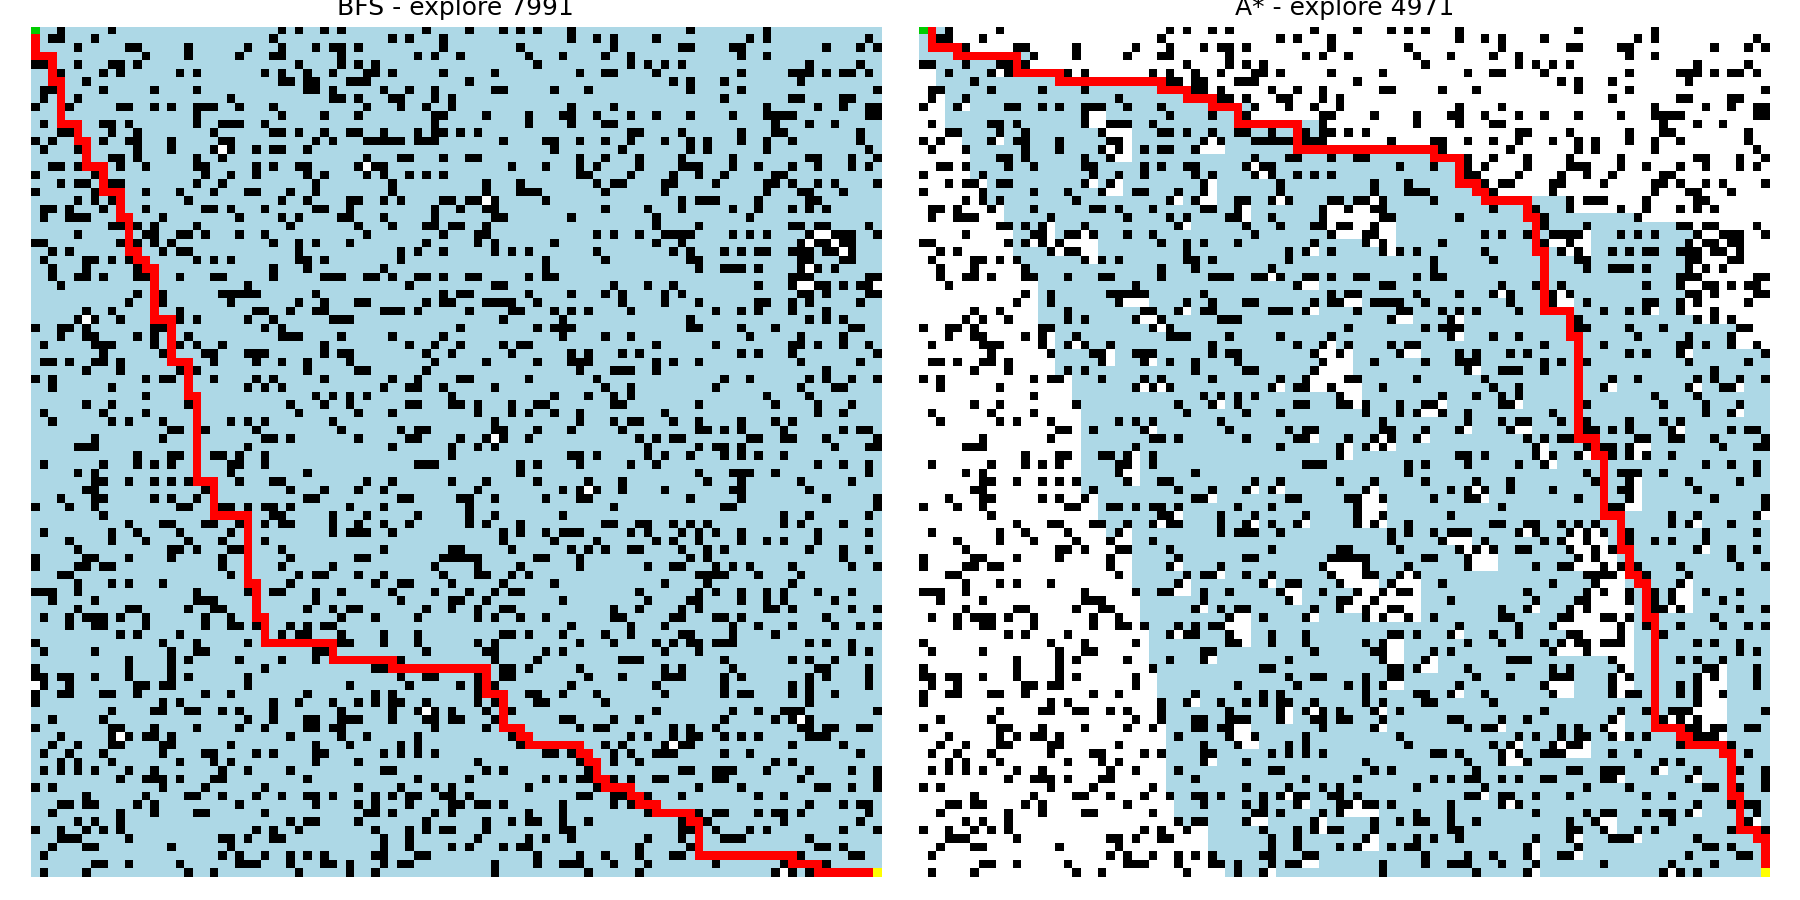
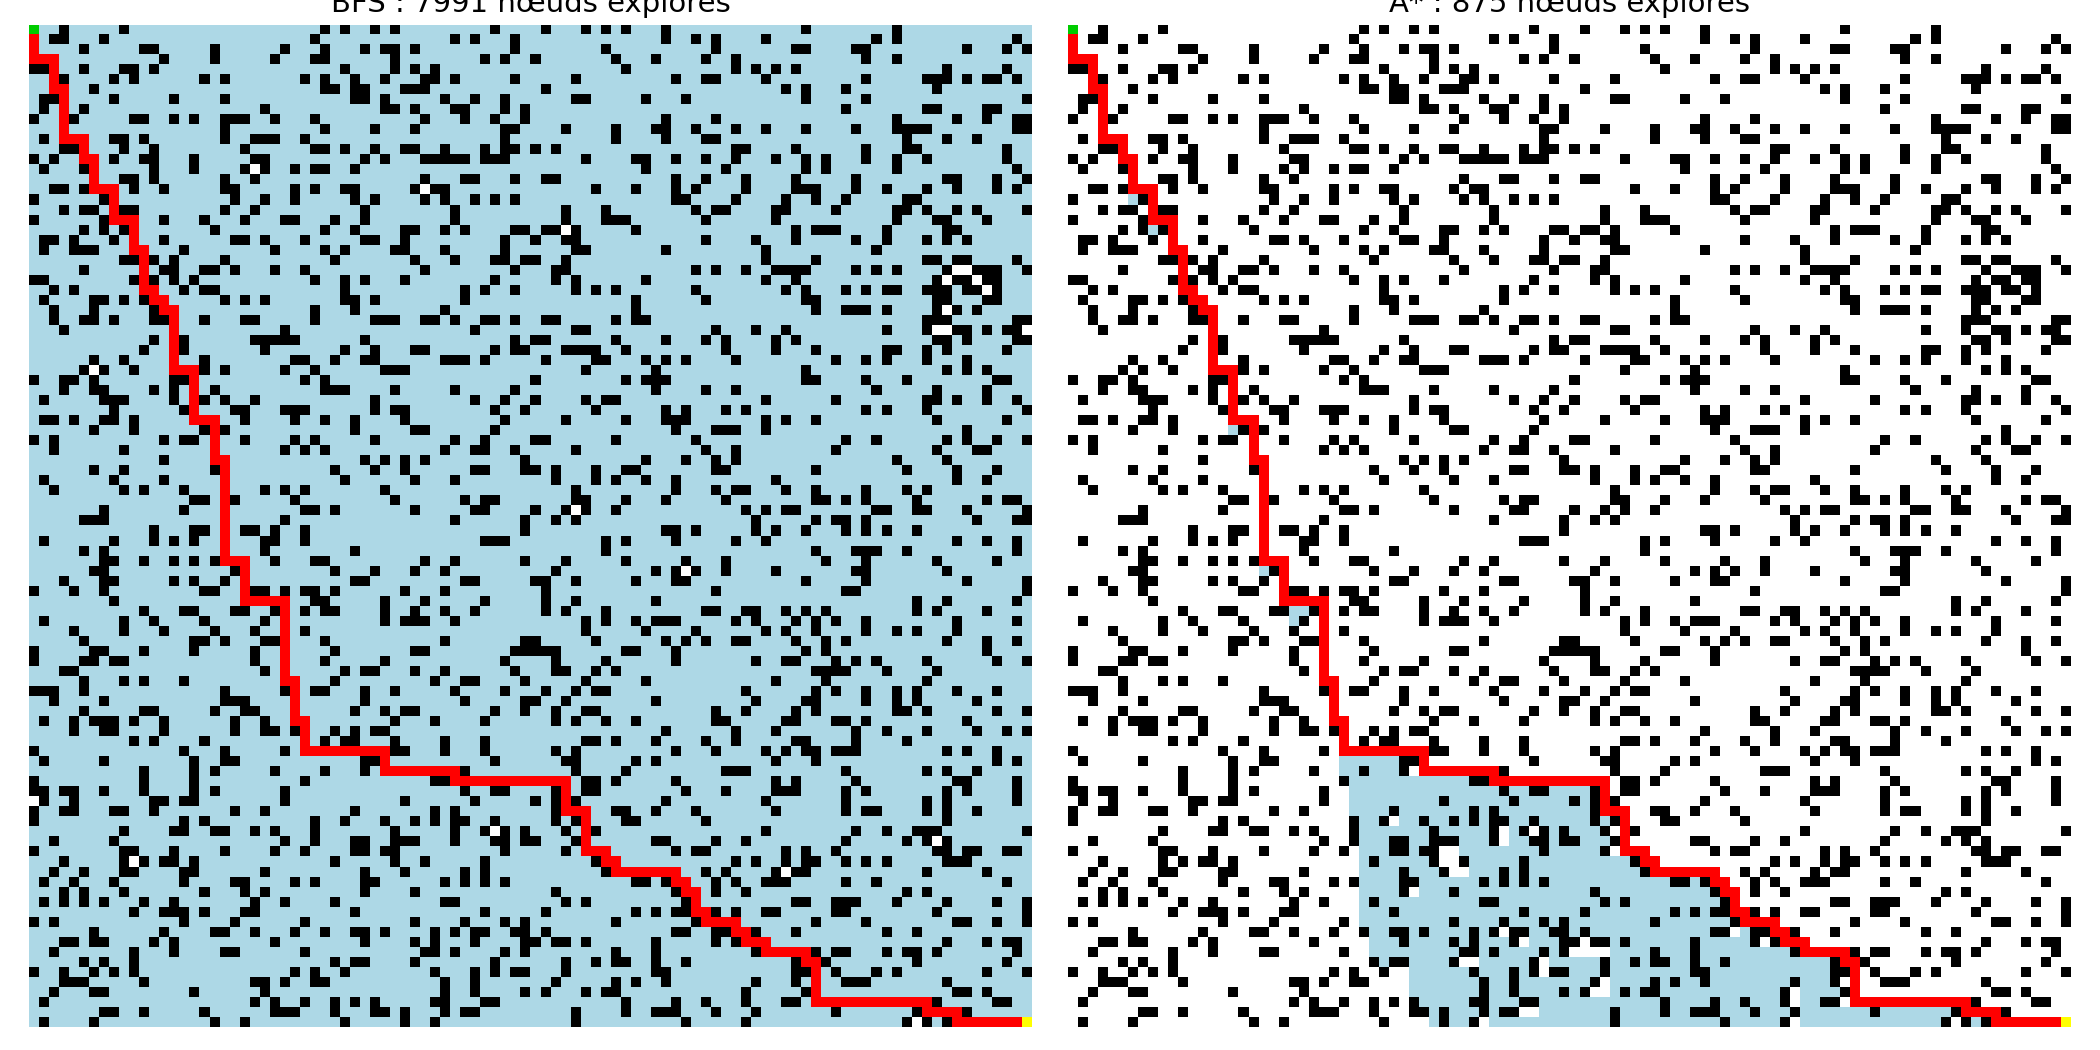
Etape 3: tie-breaking A*, temps median, page

diff --git a/templates/index.html b/templates/index.html
@@ -15,8 +15,17 @@
 </div>
 </header>
 <main class="max-w-7xl mx-auto px-4 py-8">
-<div class="grid md:grid-cols-3 gap-6">
-<div class="md:col-span-3 bg-white rounded-xl shadow p-6">
+<div class="grid md:grid-cols-1 gap-6">
+<div class="bg-white rounded-xl shadow p-6">
+<h2 class="text-lg font-semibold mb-3">Paramètres de l'expérience</h2>
+<ul class="text-sm list-disc pl-5 space-y-1">
+<li>Densité de murs : 0.2</li>
+<li>Seeds : 20, 50, 100</li>
+<li>Heuristique : Manhattan</li>
+<li>Mouvement : 4 directions</li>
+</ul>
+</div>
+<div class="bg-white rounded-xl shadow p-6">
 <h2 class="text-lg font-semibold mb-4">Comparaison des performances</h2>
 <div class="overflow-x-auto">
 <table class="min-w-full text-sm">
@@ -25,8 +34,9 @@
 <th class="px-3 py-2 text-left">Grille</th>
 <th class="px-3 py-2 text-left">Algo</th>
 <th class="px-3 py-2">Nœuds explorés</th>
-<th class="px-3 py-2">Temps s</th>
+<th class="px-3 py-2">Temps (ms)</th>
 <th class="px-3 py-2">Longueur chemin</th>
+<th class="px-3 py-2">Réduction de nœuds %</th>
 </tr>
 </thead>
 <tbody>
@@ -37,6 +47,7 @@
 <td class="px-3 py-2 text-center">{{ r.bfs_explored }}</td>
 <td class="px-3 py-2 text-center">{{ r.bfs_time }}</td>
 <td class="px-3 py-2 text-center">{{ r.bfs_path_len }}</td>
+<td class="px-3 py-2 text-center"></td>
 </tr>
 <tr class="border-t bg-slate-50">
 <td class="px-3 py-2"></td>
@@ -44,6 +55,7 @@
 <td class="px-3 py-2 text-center">{{ r.astar_explored }}</td>
 <td class="px-3 py-2 text-center">{{ r.astar_time }}</td>
 <td class="px-3 py-2 text-center">{{ r.astar_path_len }}</td>
+<td class="px-3 py-2 text-center">{{ r.reduction }}%</td>
 </tr>
 {% endfor %}
 </tbody>
@@ -74,6 +86,18 @@
 <h4 class="font-medium">Quand BFS reste-t-il préférable ?</h4>
 <p>Quand aucune heuristique fiable n'existe, graphe non pondéré petit, besoin de garantie simple sans heuristique, ou plusieurs buts inconnus. BFS est simple et optimal sur coûts unitaires.</p>
 </div>
+</div>
+</div>
+
+<div class="mt-8 bg-white rounded-xl shadow p-6">
+<h2 class="text-lg font-semibold mb-3">Observation expérimentale</h2>
+<div class="space-y-3 text-sm">
+{% for r in results %}
+<div>
+<h4 class="font-medium">Grille {{ r.size }}x{{ r.size }}</h4>
+<p>{{ r.observation }}</p>
+</div>
+{% endfor %}
 </div>
 </div>
 </main>

diff --git a/app.py b/app.py
@@ -5,6 +5,7 @@ import matplotlib
 matplotlib.use('Agg')
 import matplotlib.pyplot as plt
 from matplotlib.colors import ListedColormap
+from statistics import median
 from src.pathfinding.grid import generate_grid
 from src.pathfinding.algorithms import bfs, astar
 
@@ -14,7 +15,7 @@ os.makedirs(OUTPUT_DIR, exist_ok=True)
 
 def visualize(grid, bfs_res, astar_res, size, idx):
     # Create visualization for BFS and A* with clear colors
-    fig, axes = plt.subplots(1,2, figsize=(12,6))
+    fig, axes = plt.subplots(1,2, figsize=(14,7))
     cmap = ListedColormap(['white', 'black', '#add8e6', '#ff0000', '#00cc00', '#ffff00'])
     start = (0,0)
     goal = (grid.shape[0]-1, grid.shape[1]-1)
@@ -31,7 +32,7 @@ def visualize(grid, bfs_res, astar_res, size, idx):
         img_cat[start] = 4
         img_cat[goal] = 5
         ax.imshow(img_cat, cmap=cmap, vmin=0, vmax=5, interpolation='nearest')
-        ax.set_title(f'{title} - exploré {len(visited)}')
+        ax.set_title(f'{title} : {len(visited)} nœuds explorés', fontsize=14)
         ax.axis('off')
     plt.tight_layout()
     path_img = os.path.join(OUTPUT_DIR, f'grid_{size}_{idx}.png')
@@ -46,17 +47,34 @@ def build_results():
         grid = generate_grid(size, obstacle_ratio=0.2, seed=size)
         start = (0,0)
         goal = (size-1,size-1)
-        bfs_res = bfs(grid, start, goal)
-        astar_res = astar(grid, start, goal)
+        # 10 runs for median time
+        bfs_runs = [bfs(grid, start, goal) for _ in range(10)]
+        astar_runs = [astar(grid, start, goal) for _ in range(10)]
+        bfs_res = bfs_runs[0]
+        astar_res = astar_runs[0]
         visualize(grid, bfs_res, astar_res, size, i)
+        bfs_time_ms = round(median(r.time_ms for r in bfs_runs), 3)
+        astar_time_ms = round(median(r.time_ms for r in astar_runs), 3)
+        reduction = 0.0
+        if bfs_res.nodes_expanded > 0:
+            reduction = round((1 - astar_res.nodes_expanded / bfs_res.nodes_expanded) * 100, 1)
+        if astar_res.nodes_expanded < bfs_res.nodes_expanded:
+            if astar_time_ms >= bfs_time_ms:
+                observation = f"Sur {size}x{size}, A* explore {astar_res.nodes_expanded} nœuds contre {bfs_res.nodes_expanded} pour BFS, soit une réduction de {reduction}%, mais le temps médian est {astar_time_ms} ms contre {bfs_time_ms} ms : le coût du tas O(log n) compense le gain sur cette taille."
+            else:
+                observation = f"Sur {size}x{size}, A* explore {astar_res.nodes_expanded} nœuds contre {bfs_res.nodes_expanded} pour BFS, soit une réduction de {reduction}%, et est aussi plus rapide en temps {astar_time_ms} ms contre {bfs_time_ms} ms."
+        else:
+            observation = f"Sur {size}x{size}, A* n’apporte pas de gain en nombre de nœuds explorés."
         data.append({
             'size': size,
             'bfs_explored': bfs_res.nodes_expanded,
             'astar_explored': astar_res.nodes_expanded,
-            'bfs_time': round(bfs_res.time_ms/1000,4),
-            'astar_time': round(astar_res.time_ms/1000,4),
+            'bfs_time': bfs_time_ms,
+            'astar_time': astar_time_ms,
             'bfs_path_len': bfs_res.cost,
             'astar_path_len': astar_res.cost,
+            'reduction': reduction,
+            'observation': observation,
             'image': f'output/grid_{size}_{i}.png'
         })
     return data

diff --git a/src/pathfinding/algorithms.py b/src/pathfinding/algorithms.py
@@ -56,8 +56,11 @@ def bfs(grid: Grid, start: Pos, goal: Pos) -> SearchResult:
     )
 
 def astar(grid: Grid, start: Pos, goal: Pos) -> SearchResult:
-    open_set: List[Tuple[int, int, Pos]] = []
-    heapq.heappush(open_set, (manhattan(start, goal), 0, start))
+    from itertools import count
+    counter = count()
+    open_set: List[Tuple[int, int, int, Pos]] = []
+    h_start = manhattan(start, goal)
+    heapq.heappush(open_set, (h_start, h_start, next(counter), start))
     came_from: Dict[Pos, Pos | None] = {start: None}
     g_score: Dict[Pos, int] = {start: 0}
     closed_set: set[Pos] = set()
@@ -67,20 +70,22 @@ def astar(grid: Grid, start: Pos, goal: Pos) -> SearchResult:
     start_time = time.perf_counter()
     while open_set:
         max_frontier = max(max_frontier, len(open_set))
-        _, current_g, current = heapq.heappop(open_set)
+        f, h, _, current = heapq.heappop(open_set)
         if current in closed_set:
             continue
         closed_set.add(current)
         visited_order.append(current)
         if current == goal:
             break
+        current_g = g_score[current]
         for nb in get_neighbors(current, grid):
-            tentative_g = g_score[current] + 1
+            tentative_g = current_g + 1
             if nb not in g_score or tentative_g < g_score[nb]:
                 came_from[nb] = current
                 g_score[nb] = tentative_g
-                f = tentative_g + manhattan(nb, goal)
-                heapq.heappush(open_set, (f, tentative_g, nb))
+                h_nb = manhattan(nb, goal)
+                f_nb = tentative_g + h_nb
+                heapq.heappush(open_set, (f_nb, h_nb, next(counter), nb))
                 if nb not in closed_set:
                     nodes_generated += 1
     elapsed_ms = (time.perf_counter() - start_time) * 1000

diff --git a/tests/test_algorithms.py b/tests/test_algorithms.py
@@ -111,3 +111,11 @@ def test_generate_grid_guarantees_path():
     grid = generate_grid(15, obstacle_ratio=0.3, seed=7)
     res = bfs(grid, (0,0), (14,14))
     assert res.path, "generate_grid doit garantir un chemin"
+
+
+def test_astar_empty_grid_tie_breaking_limit():
+    grid = np.zeros((50,50), dtype=int)
+    res_bfs = bfs(grid, (0,0), (49,49))
+    res_astar = astar(grid, (0,0), (49,49))
+    assert res_astar.cost == res_bfs.cost
+    assert res_astar.nodes_expanded <= 150
